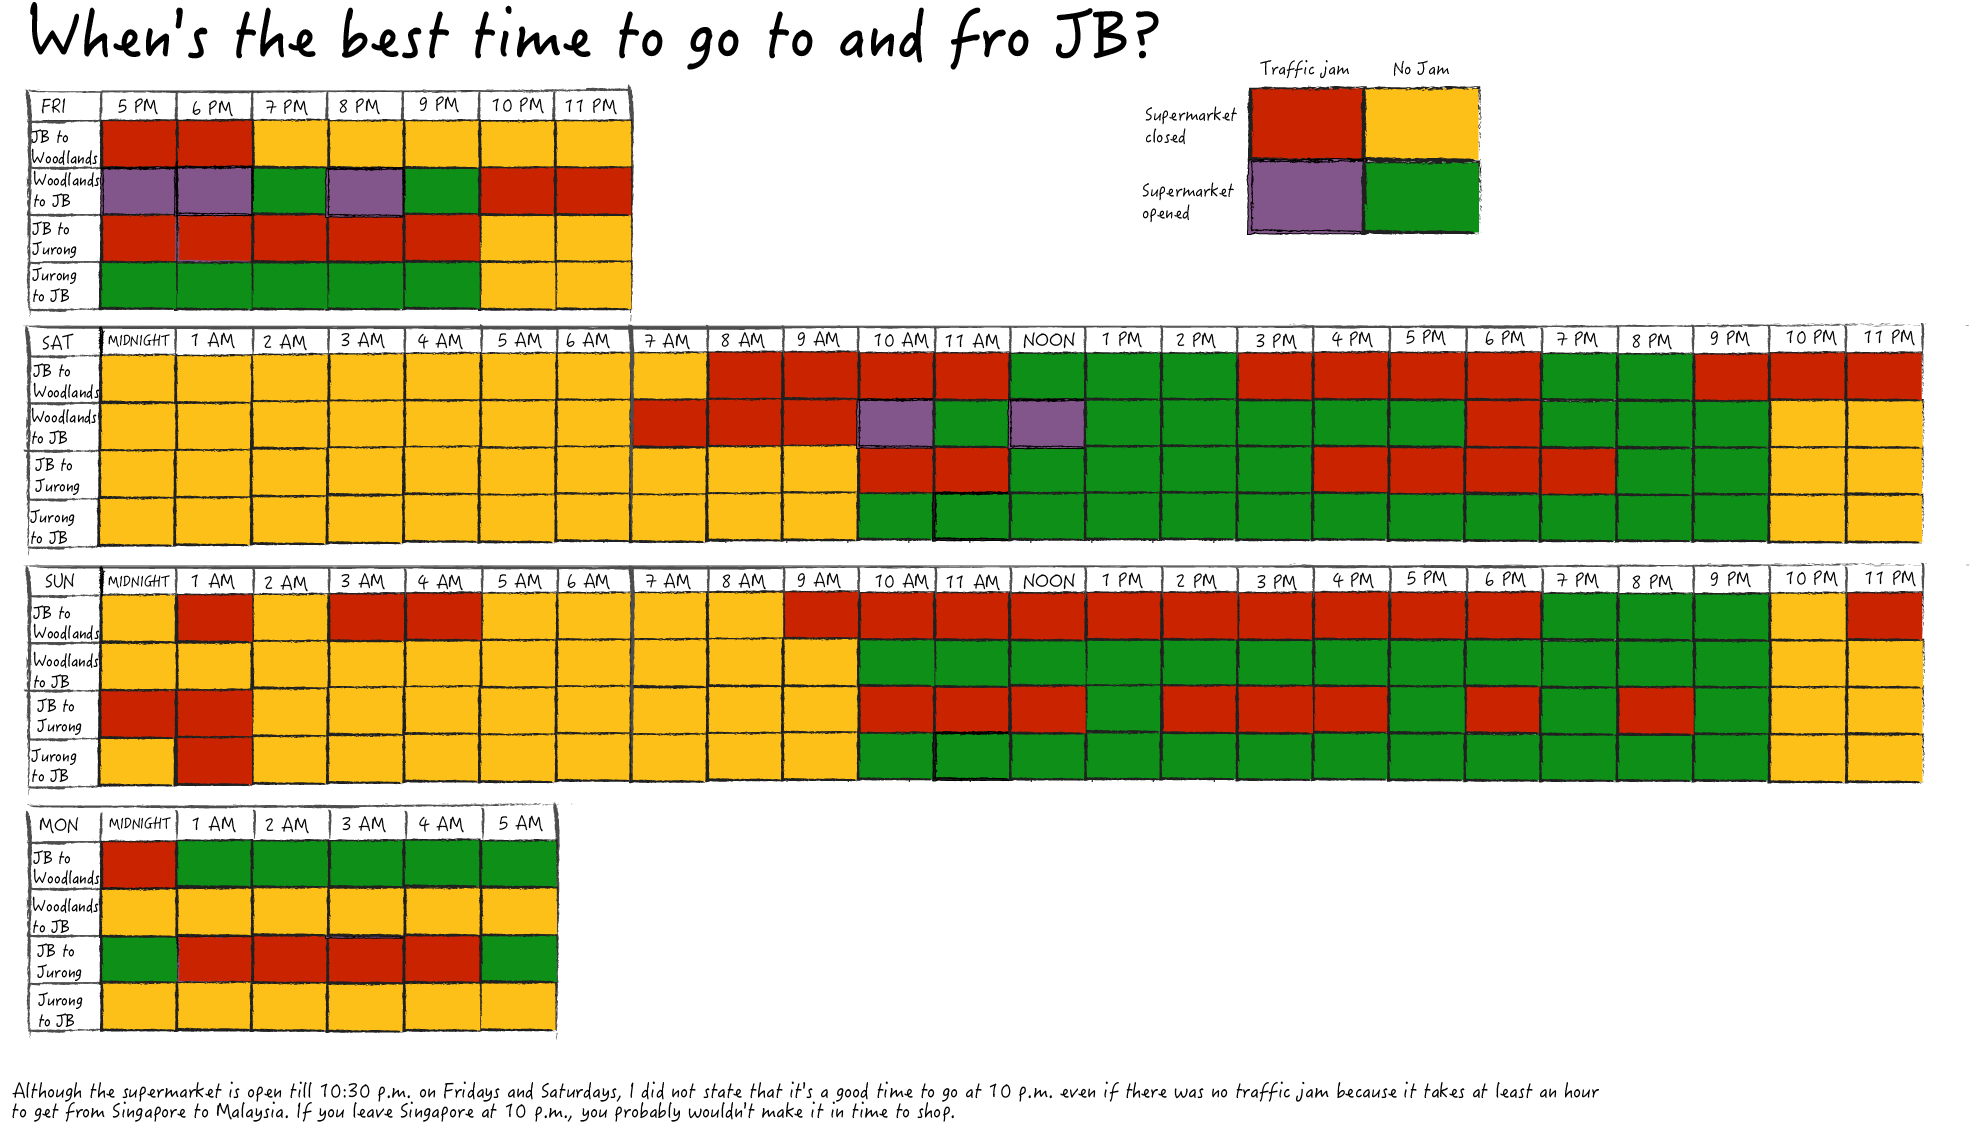
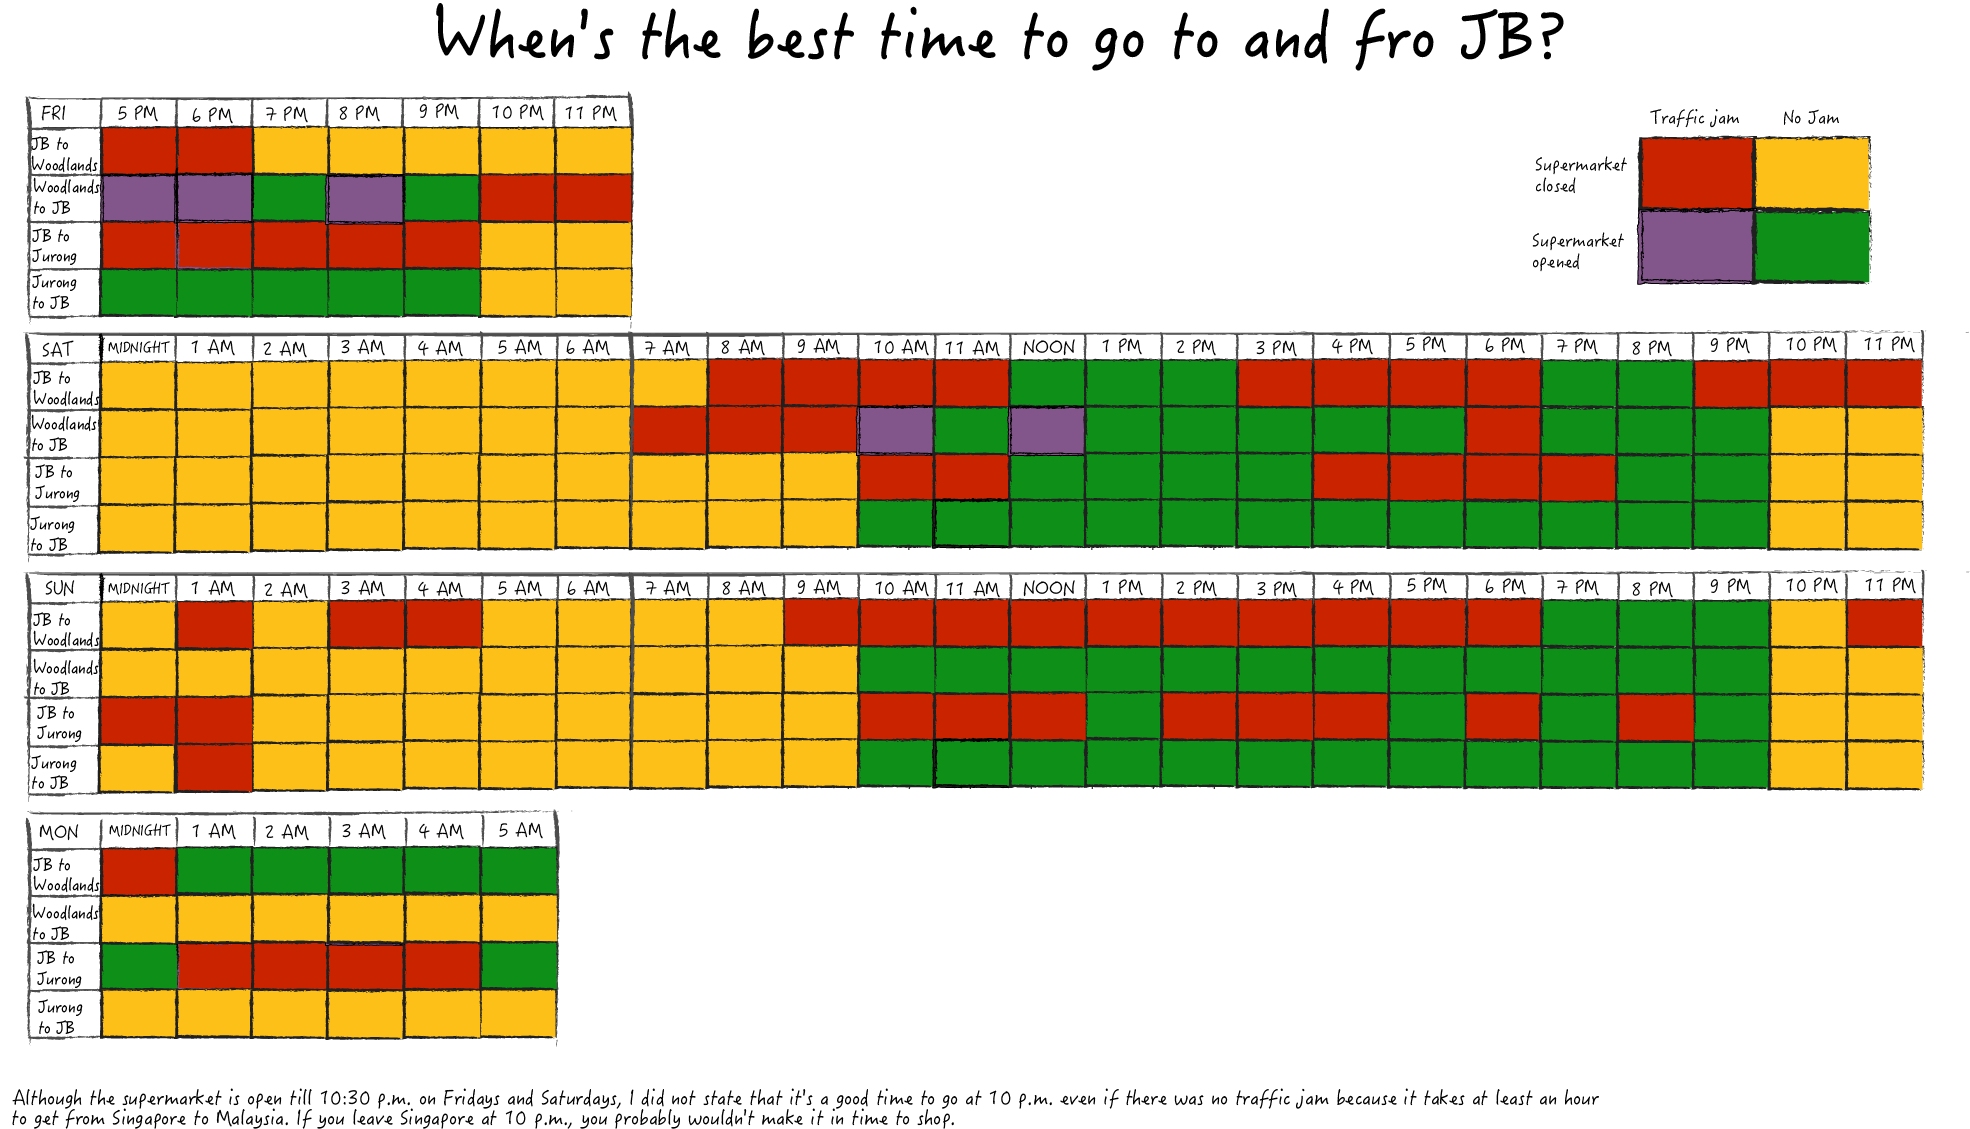
designed new charts

Changed region(s): [[0.0, 0.0, 0.9909, 0.9358], [0.1239, 0.8734, 0.2787, 0.9358], [0.0929, 0.9046, 0.1239, 0.9358]]

diff --git a/index.html b/index.html
@@ -151,9 +151,9 @@
 
     .chart{
       margin-bottom: 2.5%;
-      margin-left: auto;
-      margin-right: auto;
-      width: 700px;
+      margin-left: 15px;
+      margin-right: 15px;
+      width: 900px;
       margin-top: 3.5%;
       align-items: center;
     }
@@ -176,79 +176,6 @@
         color: rgb(79, 77, 77);
         text-align: center;
       }
-  .food {
-      width: 1300px;
-      max-width: 50%;
-      margin: flex;
-      margin-left: auto;
-      margin-right: auto;
-      display: flex;
-      flex-direction: row;
-      flex-wrap: wrap;
-      justify-content: space-evenly;
-      text-align: justify;
-    }
-
-  .egg {
-    display: flex;
-    justify-content:space-evenly;
-    font-family: 'Quicksand', sans-serif;
-    font-size: 18px;
-    font-weight: normal;
-    color: rgb(79, 77, 77);
-    margin-bottom: 2%;
-
-  }
-
-  .noodles {
-    display: flex;
-    justify-content: space-evenly; 
-    font-family: 'Quicksand', sans-serif;
-    font-size: 18px;
-    font-weight: normal;
-    color: rgb(79, 77, 77);
-    margin-bottom: 2%;
-  }
-
-  .chicken {
-    display: flex;
-    justify-content: space-evenly; 
-    font-family: 'Quicksand', sans-serif;
-    font-size: 18px;
-    font-weight: normal;
-    color: rgb(79, 77, 77);
-    margin-bottom: 2%;
-  }
-
-  .bread {
-    display: flex;
-    justify-content: space-evenly; 
-    font-family: 'Quicksand', sans-serif;
-    font-size: 18px;
-    font-weight: normal;
-    color: rgb(79, 77, 77);
-    margin-bottom: 2%;
-  }
-
-  .petrol {
-    display: flex;
-    justify-content: space-evenly; 
-    font-family: 'Quicksand', sans-serif;
-    font-size: 18px;
-    font-weight: normal;
-    color: rgb(79, 77, 77);
-    margin-bottom: 2%;
-  }
-
-  .Malaysiafood {
-    margin-left: 3em;
-    margin-right: 6em;
-    text-align: start;
-  }
-
-  .Singaporefood {
-    text-align: start;
-  }
 
   .footnote {
     font-family: 'Quicksand', sans-serif;
@@ -376,51 +303,25 @@
   <p>Here could be the best times to go to Johor Bahru (JB) over the weekend, based on hourly photos of whether either causeways were full of cars or mostly empty between 5 p.m. on Friday, 13th January 2023 and 5 a.m. on Monday, 16th January 2023.</p><br>
   </div>
 <div class="chart">
- <img src="best-time-to-go-JB.png">
+  <img src="best-time-to-go-JB.png" style="max-width:200%; height:700px;">
   </script>
 </div>
 
 <div class="groceryprices">
   <h2> And why go to JB? Because the price is right! </h2>
   </div>
-<div class="sub"> I compared the prices of four grocery items sold on NTUC Fairprice (Singapore) and ÆON's (Malaysia) online stores as for Febuary 5th, 2023. </p>
-</div>
+<div class="sub"> I compared the prices of four grocery items sold on NTUC Fairprice (Singapore) and ÆON's (Malaysia) online stores as for Febuary 5th, 2023. </p><br>
 
-<div class="food">
-<div class="egg">
-  <img class="is-rounded" src="1-1203254406i5t0.png" style="max-width:45%; height:110px">
-  <p class="Malaysiafood">Malaysia: <a href="https://myaeon2go.com/product/1595/classic-eggs-medium"> Classic 10 medium eggs</a><br><strong>RM 7.20 (SG$2.25)</strong></p>
-  <p class="Singaporefood">Singapore: <a href="https://www.fairprice.com.sg/product/smartchoice-fresh-eggs-10-per-pack-13183499"> SmartChoice 10 Fresh Eggs</a><br><strong>SG$2.85</strong></p>
-</div>
-
-<div class="noodles">
-  <img class="is-rounded" src="Indomie_Mie_Goreng_Iga_Penyet_1.png" style="max-width:45%; height:100px">
-  <p class="Malaysiafood">Malaysia: <a href="https://myaeon2go.com/product/2429/mi-goreng-asli">Original Indomie x 5 </a><br><strong>RM 5.81 (SG$1.81)</strong></p>
-  <p class="Singaporefood">Singapore: <a href="https://www.fairprice.com.sg/product/indomie-mi-goreng-instant-noodles-original-5-x-80g-13082321"> Original Indomie x 5 </a><br><strong>SG$2.60</strong></p>
-</div>
-
-<div class="chicken">
-  <img class="is-rounded" src="Free_range_chicken_flock.png" style="max-width:45%; height:100px">
-  <p class="Malaysiafood" >Malaysia: <a href="https://myaeon2go.com/product/23123/whole-chicken-without-head--feet">Fresh whole chicken without<br> head and feet (~2kg) </a><br> <strong>RM 19.80 (SG$3.06/kg)</strong></p>
-  <p class="Singaporefood">Singapore: <a href="https://www.fairprice.com.sg/product/chicken-story-fresh-chicken-whole-1200g-90049613">Fresh whole chicken (1.2kg) </a><br> <strong>SG$11.90 (SG$9.92/kg)</strong></p>
-</div>
-
-<div class="bread">
-  <img class="is-rounded" src="raisinbread.png" style="max-width:45%; height:100px">
-  <p class="Malaysiafood">Malaysia: <a href="https://myaeon2go.com/product/4238/delicia-choco-raisin">Gardenia Delicia Choco Raisin (can't get in SG!) </a><br><strong>RM 5.50 (SG$1.70)</strong></p>
-  <p class="Singaporefood">Singapore: <a href="https://www.fairprice.com.sg/product/10470049">Gardenia California raisin loaf </a><strong>SG$3.70</strong></p>
-</div>
-
-<div class="petrol">
-  <img class="is-rounded" src="Petrol_pump_mp3h0354.png" style="max-width:45%; height:100px">
-  <p class="Malaysiafood">Malaysia*: <a href="https://www.comparehero.my/transportation/articles/latest-petrol-price-ron95-ron97-diesel">Ron97 (the grade foreign cars are allowed to pump) </a><br> <strong>RM 3.35/liter (SG$1.04/liter)</strong></p>
-  <p class="Singaporefood">Singapore: <a href="https://www.motorist.sg/petrol-prices"> 92-Octane petrol (lowest grade) </a><br><strong> SG$2.70/liter</strong></p>
-</div>
+  <img src="prices-groceries.png">
 </div>
 
 <div class="footnote">
-<p><em>*Because petrol in Malaysia is so much cheaper, <a href="https://www.channelnewsasia.com/asia/malaysia-johor-fine-ron95-petrol-strict-action-2606711">foreign-owned cars</a> are only allowed to refuel once a day. And there is a 20-litre limit at any petrol stations within 25km of the Malaysia-Singapore land borders. Singapore-owned cars are also required to have a fuel tank that is <a href="https://www.customs.gov.sg/individuals/going-through-customs/departure/three-quarter-tank-rule">at least three-quarters full</a> before leaving the country.</p></em><br>
+  <p>Prices taken from here:</p>
+  <p><a href="https://myaeon2go.com/product/1595/classic-eggs-medium">Eggs in Malaysia</a>, <a href="https://www.fairprice.com.sg/product/smartchoice-fresh-eggs-10-per-pack-13183499">Eggs in Singapore</a>,
+  <a href="https://myaeon2go.com/product/2429/mi-goreng-asli">Instant noodles in Malaysia</a>, <a href="https://www.fairprice.com.sg/product/indomie-mi-goreng-instant-noodles-original-5-x-80g-13082321">Instant noodles in Singapore</a>,
+  <a href="https://myaeon2go.com/product/23123/whole-chicken-without-head--feet">Fresh chicken in Malaysia</a>, <a href="https://www.fairprice.com.sg/product/chicken-story-fresh-chicken-whole-1200g-90049613">Fresh chicken in Singapore</a>,
+  <a href="https://myaeon2go.com/product/4238/delicia-choco-raisin">Raisin bread in Malaysia</a>, <a href="https://www.fairprice.com.sg/product/10470049">Raisin bread in Singapore</a>,
+  <a href="https://www.comparehero.my/transportation/articles/latest-petrol-price-ron95-ron97-diesel">Petrol in Malaysia</a>, <a href="https://www.motorist.sg/petrol-prices">Petrol in Singapore</a>.</p><br>
 </div>
-
 </body>
 </html>
